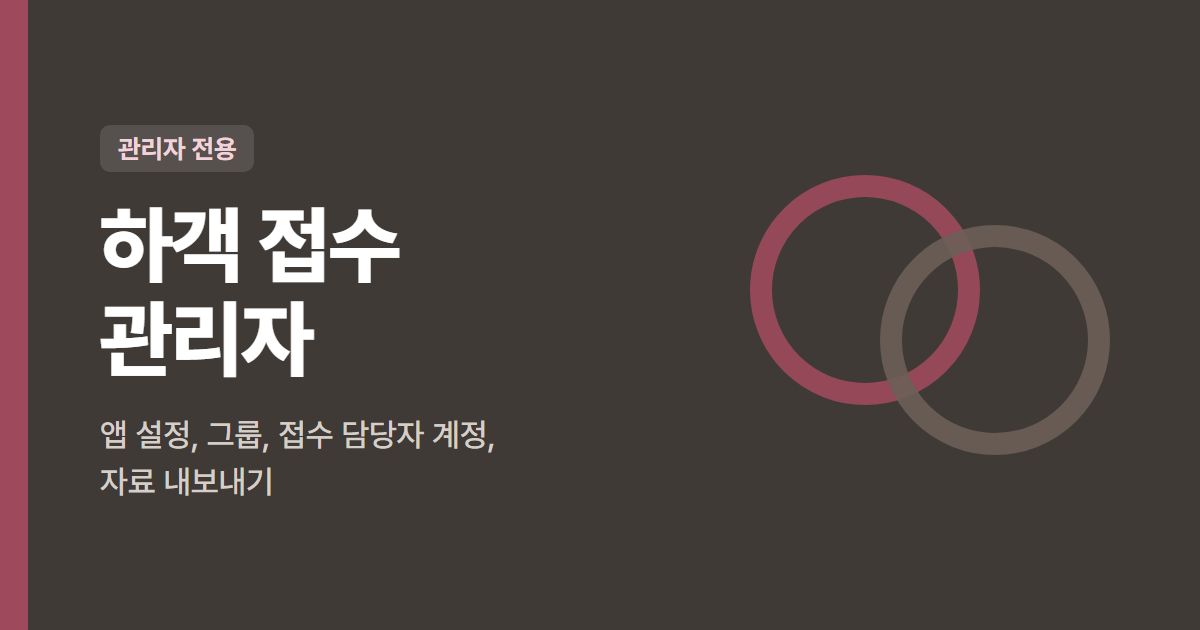
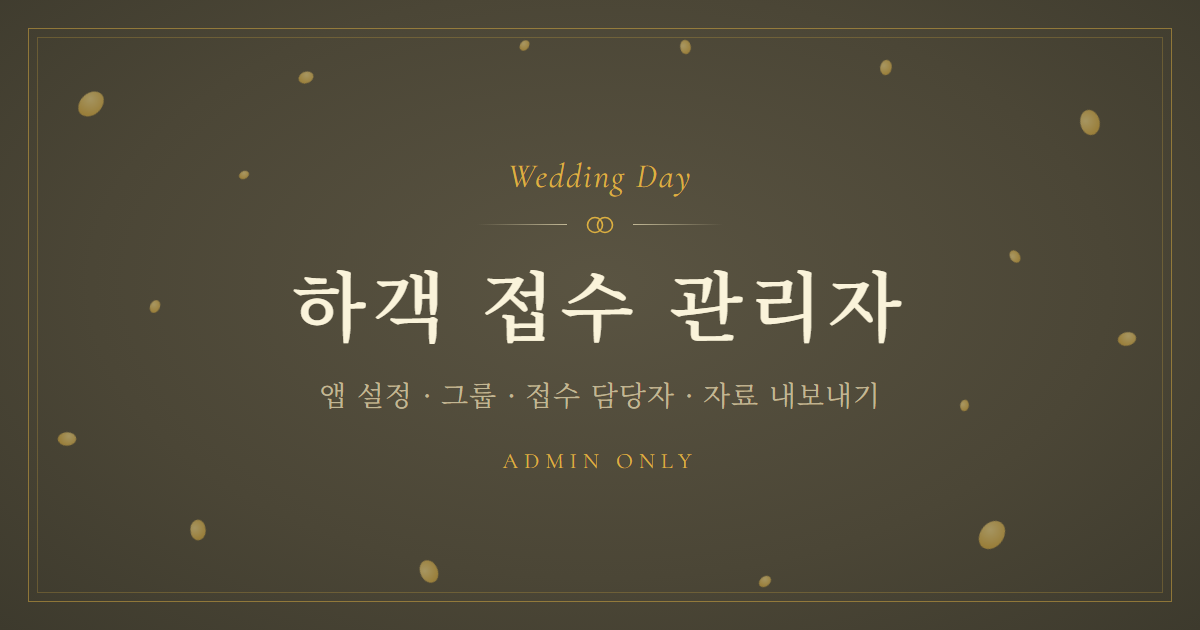
썸네일을 모바일 청첩장 분위기(아이보리·금색)로 변경

diff --git a/wedding-og-source.html b/wedding-og-source.html
@@ -3,40 +3,62 @@
 <head>
 <meta charset="UTF-8">
 <!-- 카카오톡 썸네일 원본 (1200x630). wedding-og.png / wedding-admin-og.png(?admin) 로 캡처해서 사용 -->
-<link rel="stylesheet" href="https://cdn.jsdelivr.net/gh/orioncactus/pretendard@v1.3.9/dist/web/static/pretendard.min.css">
+<!-- 모바일 청첩장과 같은 분위기: 아이보리 바탕, 올리브 갈색 글자, 금색 포인트, 흩날리는 꽃잎, 명조 글꼴 -->
+<link rel="stylesheet" href="https://fonts.googleapis.com/css2?family=Cormorant+Garamond:ital,wght@0,400;0,500;1,400&family=Noto+Serif+KR:wght@400;500;600&display=swap">
 <style>
   * { margin: 0; padding: 0; box-sizing: border-box; }
   html, body { width: 1200px; height: 630px; overflow: hidden; }
-  body { font-family: 'Pretendard', 'Malgun Gothic', sans-serif; background: #f6f4f1; color: #2b2724; position: relative; }
-  .band { position: absolute; left: 0; top: 0; bottom: 0; width: 28px; background: #9f4a5c; }
-  .ring { position: absolute; right: 90px; top: 50%; transform: translateY(-50%); width: 360px; height: 360px; }
-  .ring span { position: absolute; width: 230px; height: 230px; border-radius: 50%; border: 22px solid #9f4a5c; opacity: .9; }
-  .ring span:first-child { left: 0; top: 40px; }
-  .ring span:last-child { right: 0; top: 90px; border-color: #d9a7b2; }
-  .content { position: absolute; left: 100px; top: 0; bottom: 0; display: flex; flex-direction: column; justify-content: center; width: 640px; }
-  .tag { display: inline-block; align-self: flex-start; font-size: 26px; font-weight: 700; color: #9f4a5c; background: #f6e8eb; border-radius: 10px; padding: 8px 18px; margin-bottom: 26px; }
-  h1 { font-size: 84px; font-weight: 800; letter-spacing: -2px; line-height: 1.12; }
-  p { font-size: 32px; color: #7a716a; margin-top: 26px; line-height: 1.45; font-weight: 500; }
-  body.admin { background: #3f3a36; color: #fff; }
-  body.admin .tag { background: rgba(255,255,255,.12); color: #f3d3da; }
-  body.admin p { color: #d6cfc9; }
-  body.admin .ring span:last-child { border-color: #6b5f58; }
+  body { font-family: 'Noto Serif KR', serif; color: #4b4636; position: relative;
+    background: radial-gradient(ellipse at 50% 45%, #fffdf6 0%, #faf3da 55%, #f4edd6 100%); }
+  .frame { position: absolute; inset: 28px; border: 1.5px solid rgba(165,129,29,.45); }
+  .frame::after { content: ''; position: absolute; inset: 8px; border: 1px solid rgba(165,129,29,.22); }
+  .petals { position: absolute; inset: 0; }
+  .petals i { position: absolute; display: block; border-radius: 60% 40% 60% 40%; background: radial-gradient(circle at 35% 35%, #f3d886, #ddb041 70%); filter: blur(.6px); }
+  .content { position: absolute; inset: 0; display: flex; flex-direction: column; align-items: center; justify-content: center; text-align: center; }
+  .eyebrow { font-family: 'Cormorant Garamond', serif; font-style: italic; font-size: 34px; color: #a5811d; letter-spacing: 2px; }
+  .orn { display: flex; align-items: center; gap: 16px; margin: 18px 0 22px; color: #a5811d; }
+  .orn span { width: 90px; height: 1px; background: linear-gradient(90deg, transparent, #c1b795); }
+  .orn span:last-child { background: linear-gradient(90deg, #c1b795, transparent); }
+  h1 { font-size: 76px; font-weight: 600; letter-spacing: 6px; line-height: 1.2; }
+  p { font-size: 28px; color: #8b8268; margin-top: 26px; letter-spacing: 1px; font-weight: 400; }
+  .tag { margin-top: 34px; font-family: 'Cormorant Garamond', serif; font-size: 22px; letter-spacing: 6px; color: #a5811d; text-transform: uppercase; }
+
+  body.admin { background: radial-gradient(ellipse at 50% 45%, #5a5442 0%, #4b4636 60%, #3d3a2d 100%); color: #faf3da; }
+  body.admin .frame { border-color: rgba(221,176,65,.5); }
+  body.admin .frame::after { border-color: rgba(221,176,65,.25); }
+  body.admin .eyebrow, body.admin .tag, body.admin .orn { color: #ddb041; }
+  body.admin p { color: #c1b795; }
+  body.admin .petals i { opacity: .55 !important; }
 </style>
 </head>
 <body>
-  <div class="band"></div>
+  <div class="petals" id="petals"></div>
+  <div class="frame"></div>
   <div class="content">
-    <span class="tag" id="tag">하객 접수 · 실시간 통계</span>
-    <h1 id="title">결혼식<br>하객 접수</h1>
-    <p id="desc">청첩장 명단, 방문 접수,<br>축의금과 식권을 한곳에서</p>
+    <div class="eyebrow" id="eyebrow">Wedding Day</div>
+    <div class="orn"><span></span>
+      <svg width="34" height="20" viewBox="0 0 34 20" fill="none" stroke="currentColor" stroke-width="1.6"><circle cx="12" cy="10" r="7.5"/><circle cx="22" cy="10" r="7.5"/></svg>
+    <span></span></div>
+    <h1 id="title">결혼식 하객 접수</h1>
+    <p id="desc">청첩장 명단 · 방문 접수 · 축의금과 식권</p>
+    <div class="tag" id="tag">Guest Reception</div>
   </div>
-  <div class="ring"><span></span><span></span></div>
 <script>
+  // 꽃잎 위치는 고정값 (캡처할 때마다 같은 결과)
+  var P = [[80,90,22,30],[190,520,16,-20],[300,70,12,50],[150,300,10,10],[420,560,18,-40],[1080,110,20,-30],[980,520,24,20],
+           [1120,330,14,60],[880,60,12,-10],[760,575,10,35],[60,430,14,70],[1010,250,10,-50],[520,40,9,15],[680,40,11,-25],[240,170,8,40],[960,400,9,-15]];
+  var box = document.getElementById('petals');
+  P.forEach(function (p, i) {
+    var el = document.createElement('i');
+    el.style.cssText = 'left:' + p[0] + 'px;top:' + p[1] + 'px;width:' + p[2] + 'px;height:' + Math.round(p[2] * 1.25) + 'px;transform:rotate(' + p[3] + 'deg);opacity:' + (0.45 + (i % 4) * 0.12);
+    box.appendChild(el);
+  });
   if (location.search.indexOf('admin') >= 0) {
     document.body.classList.add('admin');
-    document.getElementById('tag').textContent = '관리자 전용';
-    document.getElementById('title').innerHTML = '하객 접수<br>관리자';
-    document.getElementById('desc').innerHTML = '앱 설정, 그룹, 접수 담당자 계정,<br>자료 내보내기';
+    document.getElementById('eyebrow').textContent = 'Wedding Day';
+    document.getElementById('title').textContent = '하객 접수 관리자';
+    document.getElementById('desc').textContent = '앱 설정 · 그룹 · 접수 담당자 · 자료 내보내기';
+    document.getElementById('tag').textContent = 'Admin Only';
   }
 </script>
 </body>

diff --git a/manage.html b/manage.html
@@ -10,7 +10,7 @@
   <meta property="og:title" content="결혼식 하객 접수 관리자" />
   <meta property="og:description" content="관리자 전용 · 앱 설정, 그룹, 접수 담당자 계정, 자료 내보내기" />
   <meta property="og:type" content="website" />
-  <meta property="og:image" content="https://cgn210-alt.github.io/wedding-guest/wedding-admin-og.png?v=1" />
+  <meta property="og:image" content="https://cgn210-alt.github.io/wedding-guest/wedding-admin-og.png?v=2" />
   <meta property="og:image:width" content="1200" />
   <meta property="og:image:height" content="630" />
   <meta name="twitter:card" content="summary_large_image" />

diff --git a/index.html b/index.html
@@ -9,7 +9,7 @@
 <meta property="og:title" content="결혼식 하객 접수">
 <meta property="og:description" content="청첩장 명단 · 방문 접수 · 축의금 · 식권 · 실시간 통계">
 <meta property="og:type" content="website">
-<meta property="og:image" content="https://cgn210-alt.github.io/wedding-guest/wedding-og.png?v=1">
+<meta property="og:image" content="https://cgn210-alt.github.io/wedding-guest/wedding-og.png?v=2">
 <meta property="og:image:width" content="1200">
 <meta property="og:image:height" content="630">
 <meta name="twitter:card" content="summary_large_image">
